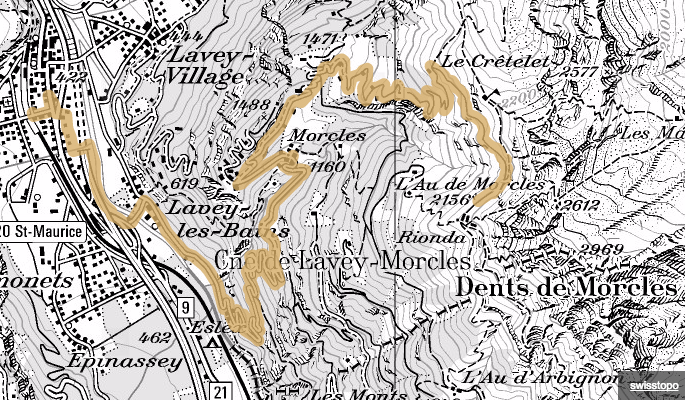
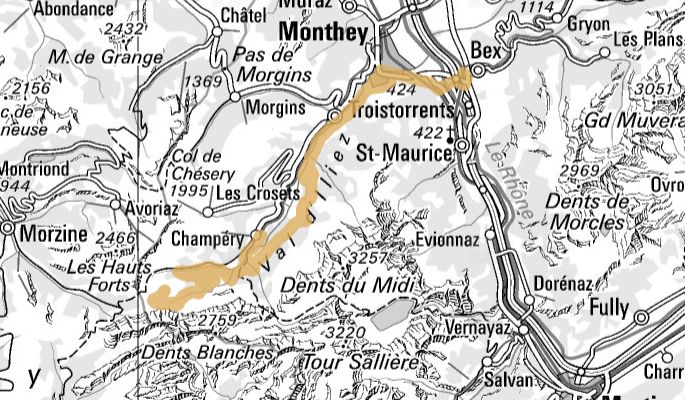
Val d'Illiez

diff --git a/parcours/val-d-Illiez/index.html b/parcours/val-d-Illiez/index.html
@@ -5,26 +5,26 @@
   <meta name="viewport" content="width=device-width, initial-scale=1.0">
   <link rel="stylesheet" href="../main.css">
   <title>Lavey - Morcles</title>
-  <meta name="description" content="Parcours à vélo de Lavey à Rionda" />
+  <meta name="description" content="Parcours à vélo dans le Val d'Illiez" />
 </head>
 
 <body>
   <div class="wrapper">
-    <h1>Lavey-Morcles</h1>
+    <h1>Gravel d'Illiez</h1>
   </div>
   <script src="http://api3.geo.admin.ch/loader.js?lang=en" type="text/javascript"></script>
   <div class="map" id="map"></div>
-  <noscript><img src="lavey-morcles_map.png" /></noscript>
+  <noscript><img src="val-d-Illiez_map.png" /></noscript>
   <div class="wrapper">
 
-    <a href="https://map.geo.admin.ch/?topic=ech&lang=fr&bgLayer=ch.swisstopo.pixelkarte-farbe&layers=ch.astra.veloland,ch.bav.haltestellen-oev,KML%7C%7Chttp:%2F%2Fxavieralexandre.org%2Fparcours%2Flavey-morcles.kml&layers_visibility=false,false,true&X=117176.52&Y=568745.35&zoom=7">map.geo.admin.ch</a>
+    <a href="https://s.geo.admin.ch/70256416ff">map.geo.admin.ch</a>
     <br>
-    <a href="https://map.veloland.ch/?lang=fr&route=all&bgLayer=pk&layers=Veloland&resolution=5&X=568745&Y=117177&trackId=3157976">map.veloland.ch</a>
+    <a href="https://map.veloland.ch/?lang=fr&route=all&bgLayer=pk&layers=Veloland&resolution=50&X=557180&Y=115260&trackId=3206789">map.veloland.ch</a>
     <br>
-    <a href="http://www.xavieralexandre.org/parcours/lavey-morcles.kml">trace (kml)</a>
+    <a href="http://www.xavieralexandre.org/parcours/val-d-Illiez/val-d-Illiez.kml">trace (kml)</a>
 
     <div class="description">
-      La promesse de beaux lacets, d'une fin gravel et d'un bain à Lavey.
+      Départ de la gare de Champéry, route secondaire dans le Val d'Illiez, gravel Alpin, sauna et descente jusqu'à Bex.
     </div>
   </div>
   <footer>

diff --git a/parcours/val-d-Illiez/maps.js b/parcours/val-d-Illiez/maps.js
@@ -5,14 +5,14 @@ var map = new ga.Map({
   interactions: ol.interaction.defaults({mouseWheelZoom: false, dragPan: false}),
   view: new ol.View({
     resolution: 10,
-    center: [568745.35, 117176.52]
+    center: [559000, 116000]
   }),
 });
 
 // Create the KML Layer
 var vector = new ol.layer.Vector({
   source: new ol.source.Vector({
-    url: 'http://xavieralexandre.org/parcours/lavey-morcles/lavey-morcles.kml',
+    url: 'http://xavieralexandre.org/parcours/val-d-Illiez/val-d-Illiez.kml',
     format : new ol.format.KML({
       projection: 'EPSG:21781'
     }),
